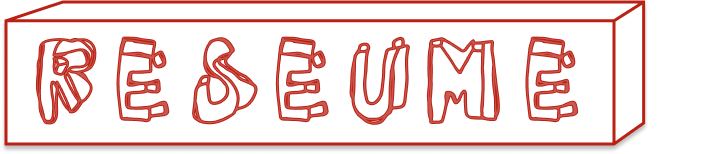
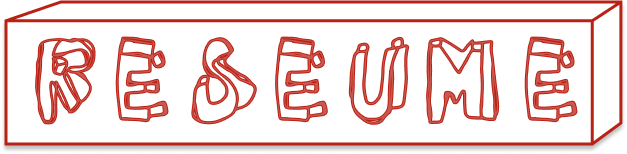
修改reseume的大小

Changed region(s): [[0.0, 0.0, 1.0, 0.987], [0.0303, 0.0, 0.1212, 0.1039]]

diff --git a/src/page/Reseume.css b/src/page/Reseume.css
@@ -69,10 +69,7 @@ h3{
 }
 @media screen and (max-width:1100px) {
    
-    .Rtitle{
-        width: 400px;
-        
-    } 
+    
     .RContent{
         flex-direction: column;
         gap: 0;
@@ -90,12 +87,18 @@ h3{
     
     }
 }
+@media screen and (max-width: 1000px) {
+    .Rtitle{
+        width: 400px;
+        
+    } 
+}
 @media screen and (max-width: 500px) {
     .Rimg{
         width: 300px;
     }
 }
-@media screen and (max-width: 400px) {
+@media screen and (max-width: 450px) {
   
     .Rtitle{
         width: 250px;
